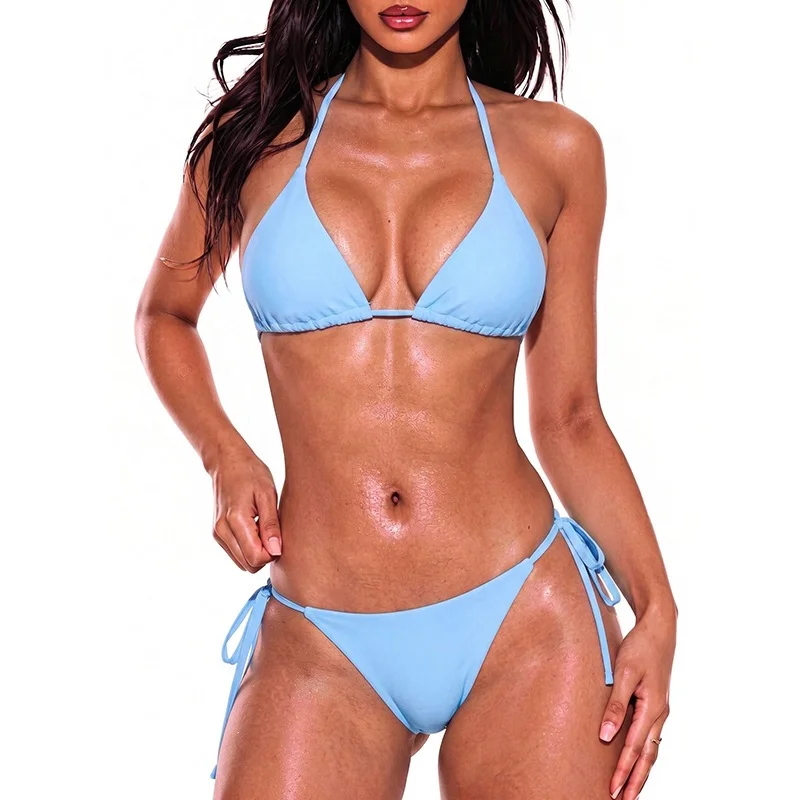
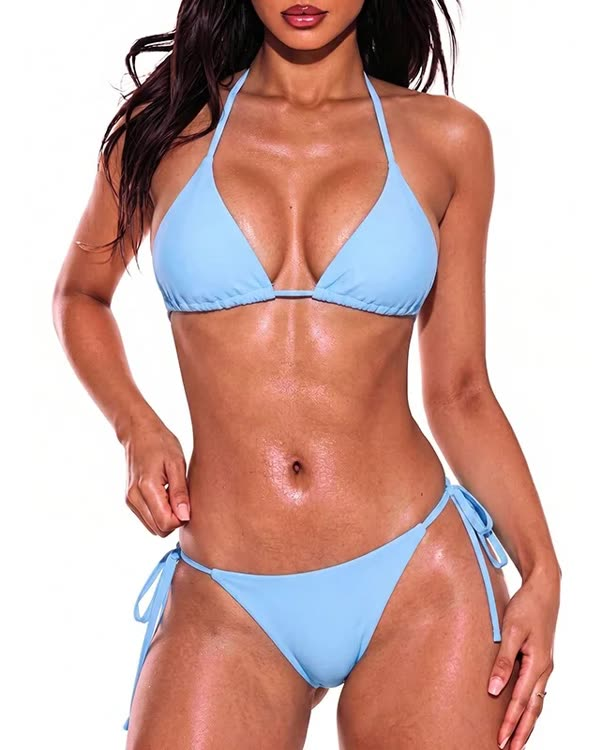
Equal-height best seller cards: 4:5 images, fixed text block heights; convert all images to real JPEG/PNG

diff --git a/campaigns/2026-08-wholesale-swimwear/index.html b/campaigns/2026-08-wholesale-swimwear/index.html
@@ -105,12 +105,12 @@
                       <tr>
                         <td class="hm-card" style="background-color:#f4f4f5; border:1px solid #dedee2;">
                           <a href="https://wearhongxiu.com/product/womens-halter-triangle-bikini-set/" target="_blank" style="text-decoration:none;">
-                            <img src="https://email.wearhongxiu.com/images/swbk106.jpg" alt="Women's Halter Triangle Bikini Set" width="186" height="186" style="display:block; width:100%; height:auto; border:0;">
+                            <img src="https://email.wearhongxiu.com/images/swbk106.jpg" alt="Women's Halter Triangle Bikini Set" width="186" height="233" style="display:block; width:100%; height:auto; border:0;">
                           </a>
                           <div style="padding:16px 16px 18px 16px;">
                             <p style="margin:0 0 5px 0; font-family:'Segoe UI',Helvetica,Arial,sans-serif; font-size:10px; font-weight:700; letter-spacing:1.2px; text-transform:uppercase; color:#a02025;">SWBK106 &middot; Bikini Set</p>
-                            <p class="hm-ink" style="margin:0 0 10px 0; font-family:'Segoe UI',Helvetica,Arial,sans-serif; font-size:14px; font-weight:700; line-height:1.3; color:#171719;">Women&rsquo;s Halter Triangle Bikini Set</p>
-                            <p class="hm-muted" style="margin:0 0 12px 0; font-family:'Segoe UI',Helvetica,Arial,sans-serif; font-size:12px; color:#5f6065;">From <span class="hm-ink" style="font-weight:700; color:#171719;">$3.54</span> &middot; MOQ 50</p>
+                            <p class="hm-ink" style="margin:0 0 10px 0; font-family:'Segoe UI',Helvetica,Arial,sans-serif; font-size:14px; font-weight:700; line-height:1.3; height:38px; color:#171719;">Women&rsquo;s Halter Triangle Bikini Set</p>
+                            <p class="hm-muted" style="margin:0 0 12px 0; font-family:'Segoe UI',Helvetica,Arial,sans-serif; font-size:12px; line-height:18px; height:18px; color:#5f6065;">From <span class="hm-ink" style="font-weight:700; color:#171719;">$3.54</span> &middot; MOQ 50</p>
                             <a href="https://wearhongxiu.com/product/womens-halter-triangle-bikini-set/" target="_blank" style="font-family:'Segoe UI',Helvetica,Arial,sans-serif; font-size:12px; font-weight:700; color:#a02025; text-decoration:underline; text-underline-offset:3px;">View style &rarr;</a>
                           </div>
                         </td>
@@ -122,12 +122,12 @@
                       <tr>
                         <td class="hm-card" style="background-color:#f4f4f5; border:1px solid #dedee2;">
                           <a href="https://wearhongxiu.com/product/plunging-neck-ribbed-one-piece-swimsuit-with-metal-ring-detail/" target="_blank" style="text-decoration:none;">
-                            <img src="https://email.wearhongxiu.com/images/swop069.jpg" alt="Plunging Neck Ribbed One-Piece Swimsuit" width="186" height="186" style="display:block; width:100%; height:auto; border:0;">
+                            <img src="https://email.wearhongxiu.com/images/swop069.jpg" alt="Plunging Neck Ribbed One-Piece Swimsuit" width="186" height="233" style="display:block; width:100%; height:auto; border:0;">
                           </a>
                           <div style="padding:16px 16px 18px 16px;">
                             <p style="margin:0 0 5px 0; font-family:'Segoe UI',Helvetica,Arial,sans-serif; font-size:10px; font-weight:700; letter-spacing:1.2px; text-transform:uppercase; color:#a02025;">SWOP069 &middot; One Piece</p>
-                            <p class="hm-ink" style="margin:0 0 10px 0; font-family:'Segoe UI',Helvetica,Arial,sans-serif; font-size:14px; font-weight:700; line-height:1.3; color:#171719;">Plunging Neck Ribbed One-Piece Swimsuit</p>
-                            <p class="hm-muted" style="margin:0 0 12px 0; font-family:'Segoe UI',Helvetica,Arial,sans-serif; font-size:12px; color:#5f6065;">From <span class="hm-ink" style="font-weight:700; color:#171719;">$4.77</span> &middot; MOQ 50</p>
+                            <p class="hm-ink" style="margin:0 0 10px 0; font-family:'Segoe UI',Helvetica,Arial,sans-serif; font-size:14px; font-weight:700; line-height:1.3; height:38px; color:#171719;">Plunging Neck Ribbed One-Piece</p>
+                            <p class="hm-muted" style="margin:0 0 12px 0; font-family:'Segoe UI',Helvetica,Arial,sans-serif; font-size:12px; line-height:18px; height:18px; color:#5f6065;">From <span class="hm-ink" style="font-weight:700; color:#171719;">$4.77</span> &middot; MOQ 50</p>
                             <a href="https://wearhongxiu.com/product/plunging-neck-ribbed-one-piece-swimsuit-with-metal-ring-detail/" target="_blank" style="font-family:'Segoe UI',Helvetica,Arial,sans-serif; font-size:12px; font-weight:700; color:#a02025; text-decoration:underline; text-underline-offset:3px;">View style &rarr;</a>
                           </div>
                         </td>
@@ -139,12 +139,12 @@
                       <tr>
                         <td class="hm-card" style="background-color:#f4f4f5; border:1px solid #dedee2;">
                           <a href="https://wearhongxiu.com/product/crochet-yoke-kaftan-cover-up-with-tassel-trim/" target="_blank" style="text-decoration:none;">
-                            <img src="https://email.wearhongxiu.com/images/cw008.jpg" alt="Crochet Yoke Kaftan Cover-Up with Tassel Trim" width="186" height="186" style="display:block; width:100%; height:auto; border:0;">
+                            <img src="https://email.wearhongxiu.com/images/cw008.jpg" alt="Crochet Yoke Kaftan Cover-Up with Tassel Trim" width="186" height="233" style="display:block; width:100%; height:auto; border:0;">
                           </a>
                           <div style="padding:16px 16px 18px 16px;">
                             <p style="margin:0 0 5px 0; font-family:'Segoe UI',Helvetica,Arial,sans-serif; font-size:10px; font-weight:700; letter-spacing:1.2px; text-transform:uppercase; color:#a02025;">CW008 &middot; Cover Ups</p>
-                            <p class="hm-ink" style="margin:0 0 10px 0; font-family:'Segoe UI',Helvetica,Arial,sans-serif; font-size:14px; font-weight:700; line-height:1.3; color:#171719;">Crochet Yoke Kaftan Cover-Up</p>
-                            <p class="hm-muted" style="margin:0 0 12px 0; font-family:'Segoe UI',Helvetica,Arial,sans-serif; font-size:12px; color:#5f6065;">From <span class="hm-ink" style="font-weight:700; color:#171719;">$5.54</span> &middot; MOQ 50</p>
+                            <p class="hm-ink" style="margin:0 0 10px 0; font-family:'Segoe UI',Helvetica,Arial,sans-serif; font-size:14px; font-weight:700; line-height:1.3; height:38px; color:#171719;">Crochet Yoke Kaftan Cover-Up</p>
+                            <p class="hm-muted" style="margin:0 0 12px 0; font-family:'Segoe UI',Helvetica,Arial,sans-serif; font-size:12px; line-height:18px; height:18px; color:#5f6065;">From <span class="hm-ink" style="font-weight:700; color:#171719;">$5.54</span> &middot; MOQ 50</p>
                             <a href="https://wearhongxiu.com/product/crochet-yoke-kaftan-cover-up-with-tassel-trim/" target="_blank" style="font-family:'Segoe UI',Helvetica,Arial,sans-serif; font-size:12px; font-weight:700; color:#a02025; text-decoration:underline; text-underline-offset:3px;">View style &rarr;</a>
                           </div>
                         </td>
